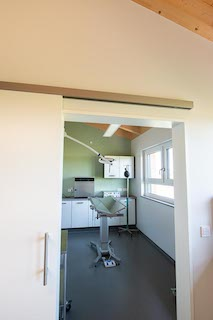
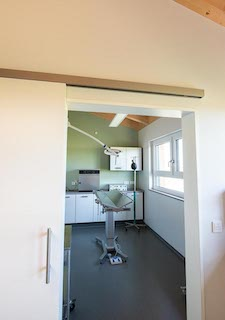
Fotos geändert und texte angepasst

diff --git a/praxis.html b/praxis.html
@@ -52,6 +52,8 @@
       </nav>
     </div>
 
+
+	<!-- Ihalt Praxis -->
     <section id="praxis">
 	<div class="container">
 		<div class="pageTitle mt-5">
@@ -70,6 +72,7 @@
 
 		<div class="row py-5 align-items-center">
 			<div class="col-md-8">
+				<!-- erste slideshow -->
 				<div id="praxisslide" class="carousel slide" data-bs-ride="carousel">
 					<div class="carousel-indicators">
 						<button type="button" data-bs-target="#praxisslide" data-bs-slide-to="0" aria-label="Slide 1" class="active" aria-current="true"></button>
@@ -78,6 +81,7 @@
 						<button type="button" data-bs-target="#praxisslide" data-bs-slide-to="3" aria-label="Slide 4"></button>
 						<button type="button" data-bs-target="#praxisslide" data-bs-slide-to="4" aria-label="Slide 5"></button>
 						<button type="button" data-bs-target="#praxisslide" data-bs-slide-to="5" aria-label="Slide 6"></button>
+						<button type="button" data-bs-target="#praxisslide" data-bs-slide-to="6" aria-label="Slide 7"></button>
 					</div>
 
 					<div class="carousel-inner">
@@ -103,6 +107,10 @@
 						</div>
 						<div class="carousel-item">
 							<div class="overlay-image" style="background-image: url('images/roentgen_pfote.jpg'),url('images/roentgen_pfote(2).jpg'); opacity: 1;">
+							</div>
+						</div>
+						<div class="carousel-item">
+							<div class="overlay-image" style="background-image: url('images/katze_kiste.jpg'),url('images/katze_kiste(2).jpg'); opacity: 1;">
 							</div>
 						</div>
 					</div>
@@ -141,6 +149,7 @@
 						<button type="button" data-bs-target="#praxisslide2" data-bs-slide-to="3" aria-label="Slide 4"></button>
 						<button type="button" data-bs-target="#praxisslide2" data-bs-slide-to="4" aria-label="Slide 5"></button>
 						<button type="button" data-bs-target="#praxisslide2" data-bs-slide-to="5" aria-label="Slide 6"></button>
+						<button type="button" data-bs-target="#praxisslide2" data-bs-slide-to="6" aria-label="Slide 7"></button>
 					</div>
 
 					<div class="carousel-inner">
@@ -153,7 +162,7 @@
 							</div>
 						</div>
 						<div class="carousel-item">
-							<div class="overlay-image" style="background-image: url('images/ultraschall.jpg'),url('images/ultraschall(2).jpg'); opacity: 1;">
+							<div class="overlay-image" style="background-image: url('images/hund.jpg'),url('images/hund.jpg'); opacity: 1;">
 							</div>
 						</div>
 						<div class="carousel-item">
@@ -166,6 +175,10 @@
 						</div>
 						<div class="carousel-item">
 							<div class="overlay-image" style="background-image: url('images/praxis_schild.jpg'),url('images/praxis_schild(2).jpg'); opacity: 1;">
+							</div>
+						</div>
+						<div class="carousel-item">
+							<div class="overlay-image" style="background-image: url('images/hund_verband.jpg'),url('images/hund_verband(2).jpg'); opacity: 1;">
 							</div>
 						</div>
 					</div>
@@ -193,6 +206,7 @@
 
 			</div>
 			<div class="col-md-5">
+				<!-- Dritte Slideshow -->
 				<div id="praxisslide3" class="carousel slide" data-bs-ride="carousel">
 					<div class="carousel-indicators">
 						<button type="button" data-bs-target="#praxisslide3" data-bs-slide-to="0" aria-label="Slide 1" class="active" aria-current="true"></button>
@@ -200,7 +214,6 @@
 						<button type="button" data-bs-target="#praxisslide3" data-bs-slide-to="2" aria-label="Slide 3"></button>
 						<button type="button" data-bs-target="#praxisslide3" data-bs-slide-to="3" aria-label="Slide 4"></button>
 						<button type="button" data-bs-target="#praxisslide3" data-bs-slide-to="4" aria-label="Slide 5"></button>
-						<button type="button" data-bs-target="#praxisslide3" data-bs-slide-to="5" aria-label="Slide 6"></button>
 					</div>
 
 					<div class="carousel-inner">
@@ -218,10 +231,6 @@
 						</div>
 						<div class="carousel-item">
 							<div class="overlay-image" style="background-image: url('images/eingang_hoch.jpg'),url('images/eingang_hoch(2).jpg'); opacity: 1;">
-							</div>
-						</div>
-						<div class="carousel-item">
-							<div class="overlay-image" style="background-image: url('images/19.jpg'),url('images/19(2).jpg'); opacity: 1;">
 							</div>
 						</div>
 						<div class="carousel-item">

diff --git a/hygiene.html b/hygiene.html
@@ -15,7 +15,7 @@
 
 
 
-	<title>Team - Tierarztpraxis Geilsheim</title>
+	<title>Hygienemaßnahmen - Tierarztpraxis Geilsheim</title>
 </head>
 <body class="d-flex flex-column h-100">
 
@@ -57,8 +57,8 @@
         <h1 style="padding-top: 6rem; padding-bottom: 3rem;">Unsere Hygienemaßnahmen</h1>
         <p style="padding-bottom: 7rem;">Aufgrund der aktuellen Lage sehen wir uns verpflichtet unsere Kund*innen,
             wie auch unsere Mitarbeiter*innen vor eventuellen COVID-Ansteckungen zu schützen. <br> <br> Aus diesem Grund bitten wir sie in unserem
-        Außenbereich oder in ihrem Auto zu warten. Des weiteren können wir ihnen leider nicht gestatten mit in die
-        Behandlungsräume zu kommen, sondern stattdessen sich zum Schutz aller weiterhin im Außenberich aufzuhalten.
+        Außenbereich oder in ihrem Auto zu warten. Des weiteren können wir ihnen leider nicht gestatten ihre Tiere mit in die
+        Behandlungsräume zu begleiten, sondern bitten Sie sich stattdessen, zum Schutz aller, weiterhin im Außenberich aufzuhalten.
         <br> <br> Wir Bitten um ihr Verständnis <br><br> Vielen Dank, ihr Praxis-Team</p>
 
     </div>

diff --git a/index.html b/index.html
@@ -34,7 +34,7 @@
               <a href="index.html"><img src="images/logo_1200_Tiere.png" width="80%"></a>
             </div>
             <div class="col-md-7 col-xl-8 text-center">
-              <a href="index.html" class="text-decoration-none"><h2 class="text-white fw-bold mb-0">Tierarztpraxis Geilsheim beta</h2></a>
+              <a href="index.html" class="text-decoration-none"><h2 class="text-white fw-bold mb-0">Tierarztpraxis Geilsheim</h2></a>
             </div>
 
           </div>

diff --git a/leistungen.html b/leistungen.html
@@ -69,7 +69,7 @@
 		</div>
 
 		<div class="row text-center kon_head pb-5 lead" style="background-color: #efefef!important;">
-			<p>Durch unser großes Team sind wir prinzipiell in der Lage alle Haustierarten professionell zu behandeln.
+			<p>Durch unser großes Team sind wir in der Lage viele Haustierarten professionell zu behandeln.
 				<br>
 			Wir legen großen Wert auf eine persönliche Beziehung und gute Kommunikation zu unseren Kund*innen.
 			</p>
